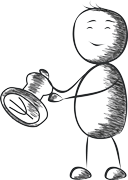
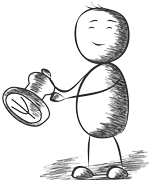
изменила тень у человечков

diff --git a/index.html b/index.html
@@ -12,7 +12,7 @@
   <div class="navbar navbar-inverse navbar-fixed-top">
     <div class="navbar-inner">
       <div class="container">
-        <a href="#go" class="brand"><i class="icon-home icon-white"></i></a></a>
+        <a href="#go" class="brand"><i class="icon-home icon-white"></i></a>
         <a class="btn btn-navbar" data-toggle="collapse" data-target=".nav-collapse">
           <span class="icon-bar"></span>
           <span class="icon-bar"></span>
@@ -43,7 +43,7 @@
       <h3 class="benefits">Наши преимущества:</h3>
       <div class="row">
         <div class="span4">
-          <img class="man" src="./img/benefits_1.png">
+          <img class="man" src="./img/benefits.png">
         </div><!--/.span4-->
         <div class="span4">
           <h5><i class="icon-ok"></i> Перевод могут проверить иностранные переводчики</h5>
@@ -144,7 +144,7 @@
           <p>Выполненный перевод подшивается к оригиналу документа или к нотариально заверенной копии.</p>
         </div><!--/.span4-->
         <div class="span4">
-          <img class="man" src="./img/translation_1.png">
+          <img class="man" src="./img/translation.png">
         </div><!--/.span4-->
       </div>
 
@@ -386,6 +386,6 @@
 </script>
 <noscript><div><img src="//mc.yandex.ru/watch/19588843" style="position:absolute; left:-9999px;" alt="" /></div></noscript>
 <!-- /Yandex.Metrika counter -->
-  
+
 </body>
 </html>

diff --git a/css/application.css b/css/application.css
@@ -9,6 +9,13 @@ body {
   background-color: #fafafc;
 }
 
+@media (max-width: 979px) and (min-width: 768px){
+.container, .navbar-static-top .container, .navbar-fixed-top .container, .navbar-fixed-bottom .container {
+width: 724px;
+}
+}
+
+
 @media (max-width: 979px) {
   .navbar-fixed-top {
     margin-bottom: 0;
